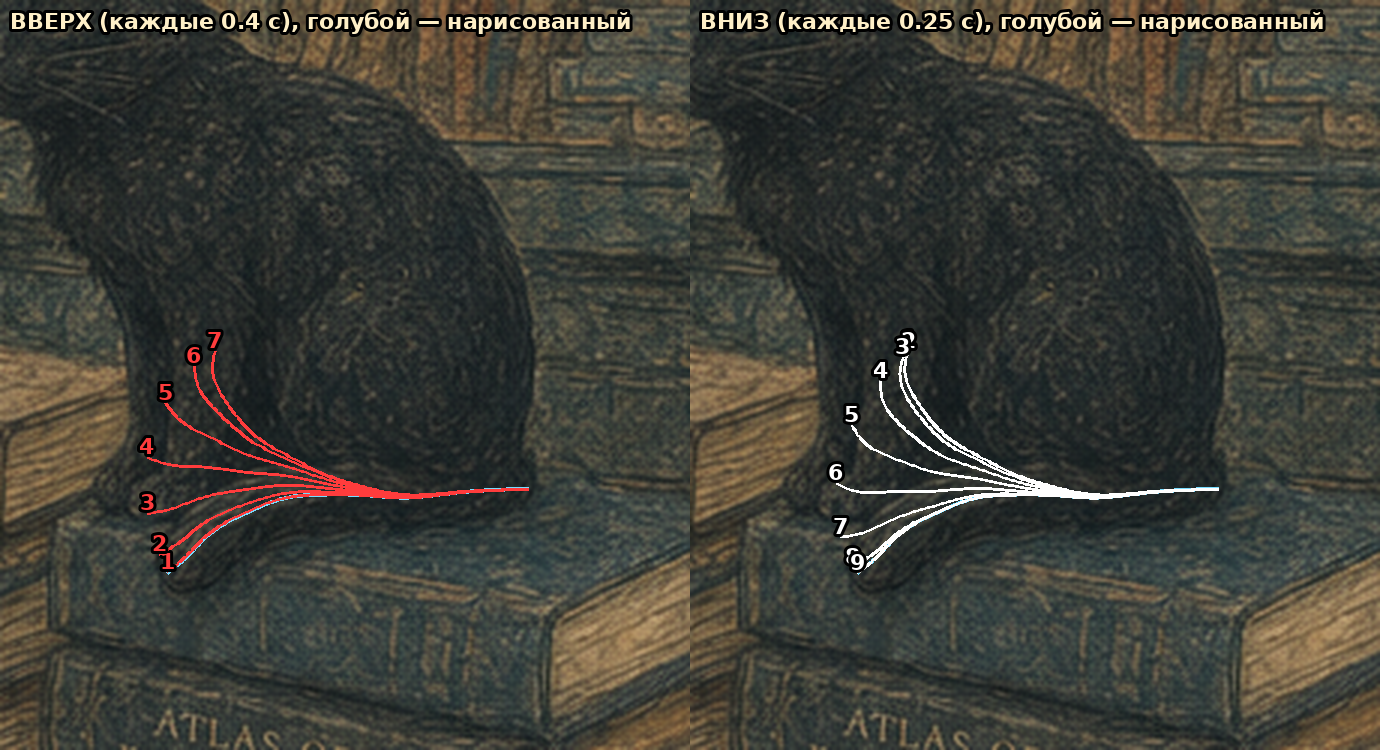
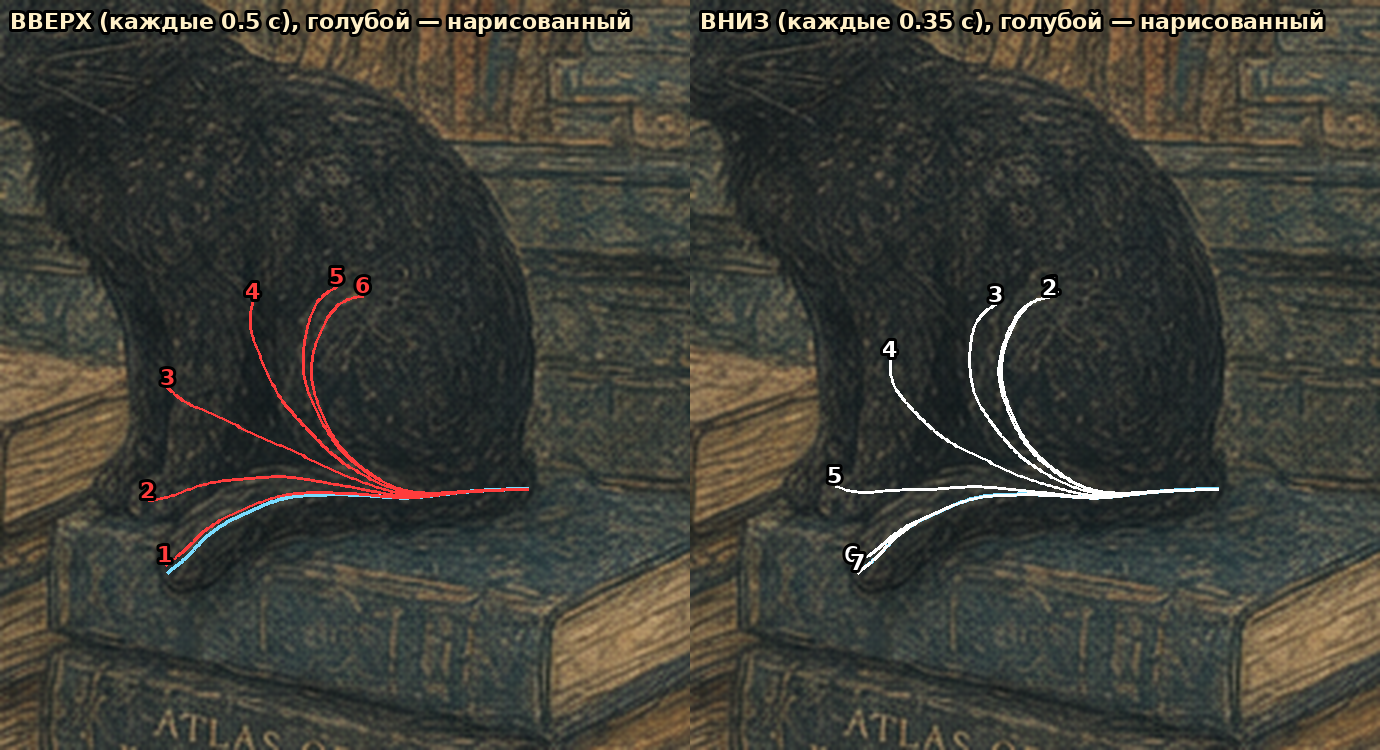
Хвост: подъём выше и круглее
Claude-Session: https://claude.ai/code/session_01QRci8T51BY6ctX5Dmkwj14

diff --git a/tools/proby/hvost_faza.py b/tools/proby/hvost_faza.py
@@ -8,9 +8,9 @@ from PIL import Image, ImageDraw, ImageFont
 OUTB_ = sys.argv[1]; MODEB_ = sys.argv[2] if len(sys.argv) > 2 else 'lines'
 sys.argv = ['x', OUTB_, 'none']
 exec(open('buzan2.py').read().split("UPP = ")[0])          # нарисованный хвост, перенос на картинку, книга (on_surface)
-NSEG = len(s); TOTAL = math.radians(150)                    # сумма поворотов всех позвонков наверху
-STIFF = 0.2                                                 # жёсткая часть у крепления (доля длины)
-x = np.clip((s - STIFF) / (1 - STIFF), 0, 1); A = x ** 1.3 + 0.02; A = A / A.sum() * TOTAL
+NSEG = len(s); TOTAL = math.radians(215)                    # сумма поворотов всех позвонков наверху
+STIFF = 0.15                                                # жёсткая часть у крепления (доля длины)
+x = np.clip((s - STIFF) / (1 - STIFF), 0, 1); A = x ** 0.8 + 0.02; A = A / A.sum() * TOTAL
 DELTA = 0.6                                                 # за сколько секунд импульс доходит до кончика
 HOLD, UP, TOP, DOWN = 5.0, 2.6, 0.4, 1.5
 def ease(u): u = min(max(u, 0.0), 1.0); return u * u * (3 - 2 * u)
@@ -28,8 +28,8 @@ CYCLE = HOLD + UP + TOP + DOWN + DELTA + 0.3
 if MODEB_ == 'lines':
     Z = 3; base = Image.fromarray(np.clip(O, 0, 255).astype(np.uint8)).resize(((x1 - x0) * Z, (y1 - y0) * Z), Image.LANCZOS)
     fnt = ImageFont.truetype('/usr/share/fonts/truetype/dejavu/DejaVuSans-Bold.ttf', 22); out = Image.new('RGB', (base.width * 2, base.height))
-    panels = [('ВВЕРХ (каждые 0.4 с)', np.arange(HOLD + 0.4, HOLD + UP + TOP + 0.01, 0.4), (255, 60, 60)),
-              ('ВНИЗ (каждые 0.25 с)', np.arange(HOLD + UP + TOP, CYCLE - 0.2, 0.25), (255, 255, 255))]
+    panels = [('ВВЕРХ (каждые 0.5 с)', np.arange(HOLD + 0.5, HOLD + UP + TOP + 0.01, 0.5), (255, 60, 60)),
+              ('ВНИЗ (каждые 0.35 с)', np.arange(HOLD + UP + TOP, CYCLE - 0.2, 0.35), (255, 255, 255))]
     for k, (title, T, col) in enumerate(panels):
         im = base.copy(); d = ImageDraw.Draw(im)
         Pp = (build_p(th0, np.ones(NSEG)) - [x0, y0]) * Z; d.line([tuple(p) for p in Pp], fill=(120, 220, 255), width=4)

diff --git a/PROJECT_NOTES.md b/PROJECT_NOTES.md
@@ -2729,3 +2729,4 @@ Shorts — НЕ делаем. Названия/шрифт/подвал — не 
 - Автор прислала план аниматоров (вставка: опора у основания, 2 ключевые позы — низ и верх, промежуточные — изгиб едет по длине от основания к кончику, на развороте кончик летит по инерции → S, в конце захлёст кончика и затухание, кончик движется дальше основания). Сделано по нему: tools/proby/hvost_volna_plan.py — ключи 1 (нарисованный) и верх (поза Buzan перед котом), промежуточные волной (ширина изгиба 0.45 длины), хвост не ниже книги. Линии: table_drafts/hvost_volna_plan.png. Захлёст пока НЕ добавлен (раньше она просила чёткую остановку) — спросить.
 - 15.10 ночь: автор: хвост не делаем («пусть кот сидит как чучело»), вписать только листья и гирлянду. С её «вписывай» записала в 'jazzt a Pengui'!AK37 (fx_Effects) текст пункта 9 из sys_EditorState (7 листьев, края, «за:», гирлянда яркость 2 / мерцание 5 / ореол 12), проверила чтением. agreed 9 в sys_EditorState не трогала. Автор упрекнула: плохо искала, всё давно разобрано (вейвинг) — на будущее искать готовые разборы, не изобретать.
 - Автор прислала совет другой нейросети: FK-цепочка с задержкой фазы (угол позвонка = f(t − j·δ)·A_j, двигаем только основание) или Verlet. Сделано по формуле: tools/proby/hvost_faza.py — повороты позвонков с задержкой δ=0.6 с до кончика, первые 20 % длины у крепления жёсткие, A растёт к кончику (x^1.3), всего 150°, книга учтена. Линии (вверх/вниз отдельно): table_drafts/hvost_faza_linii.png. Строка 37 при этом остаётся без хвоста (её решение).
+- Автор: «подъёма на верху не хватает, более кругленький». Поправлено: всего 215° (было 150), гибкость ровнее (x^0.8), жёсткая часть 15 %, линий меньше.
